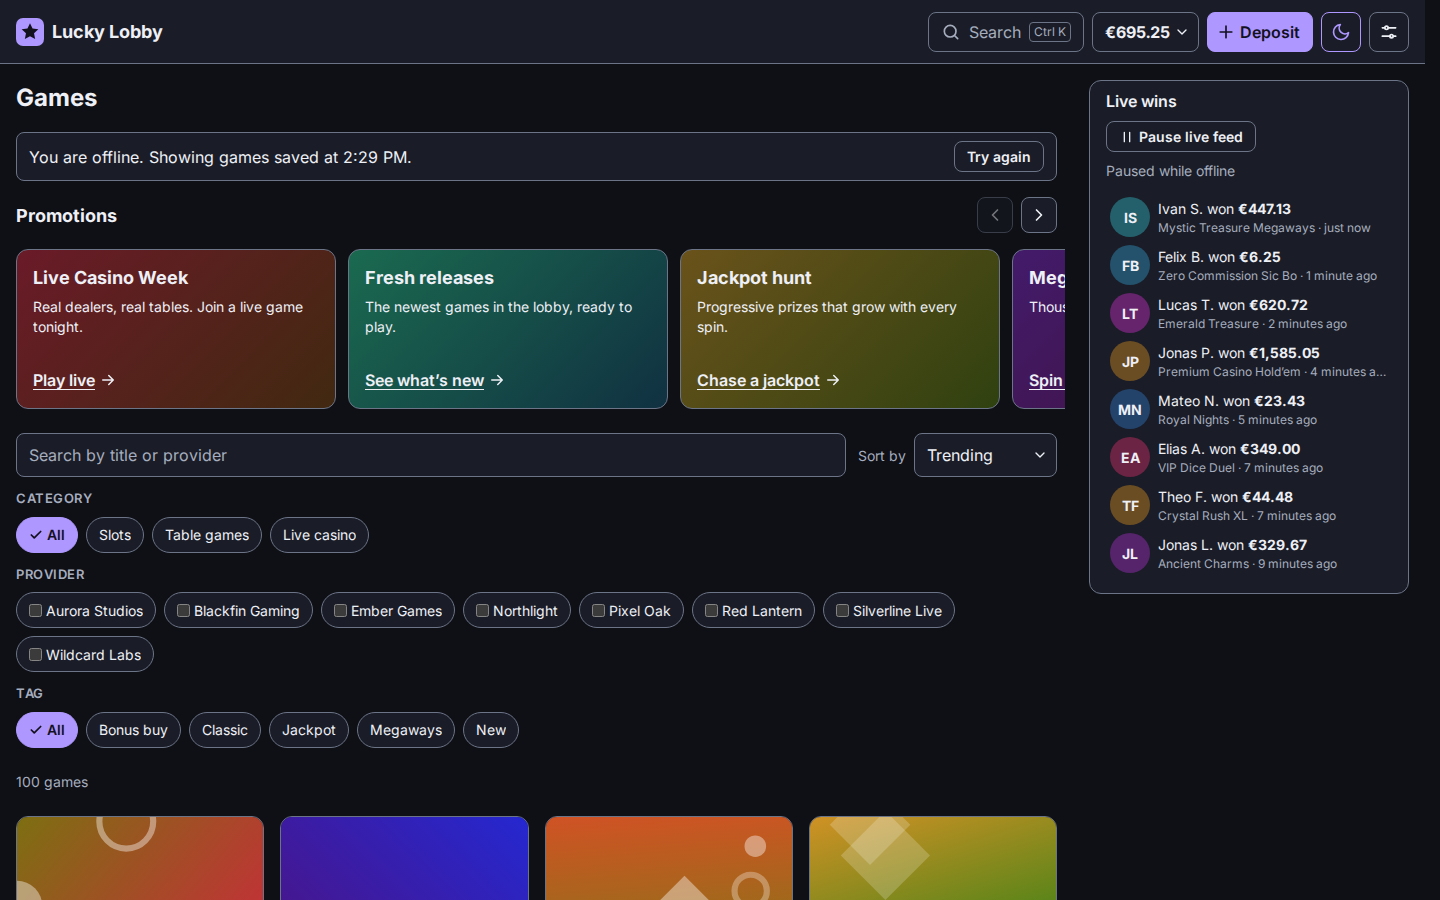
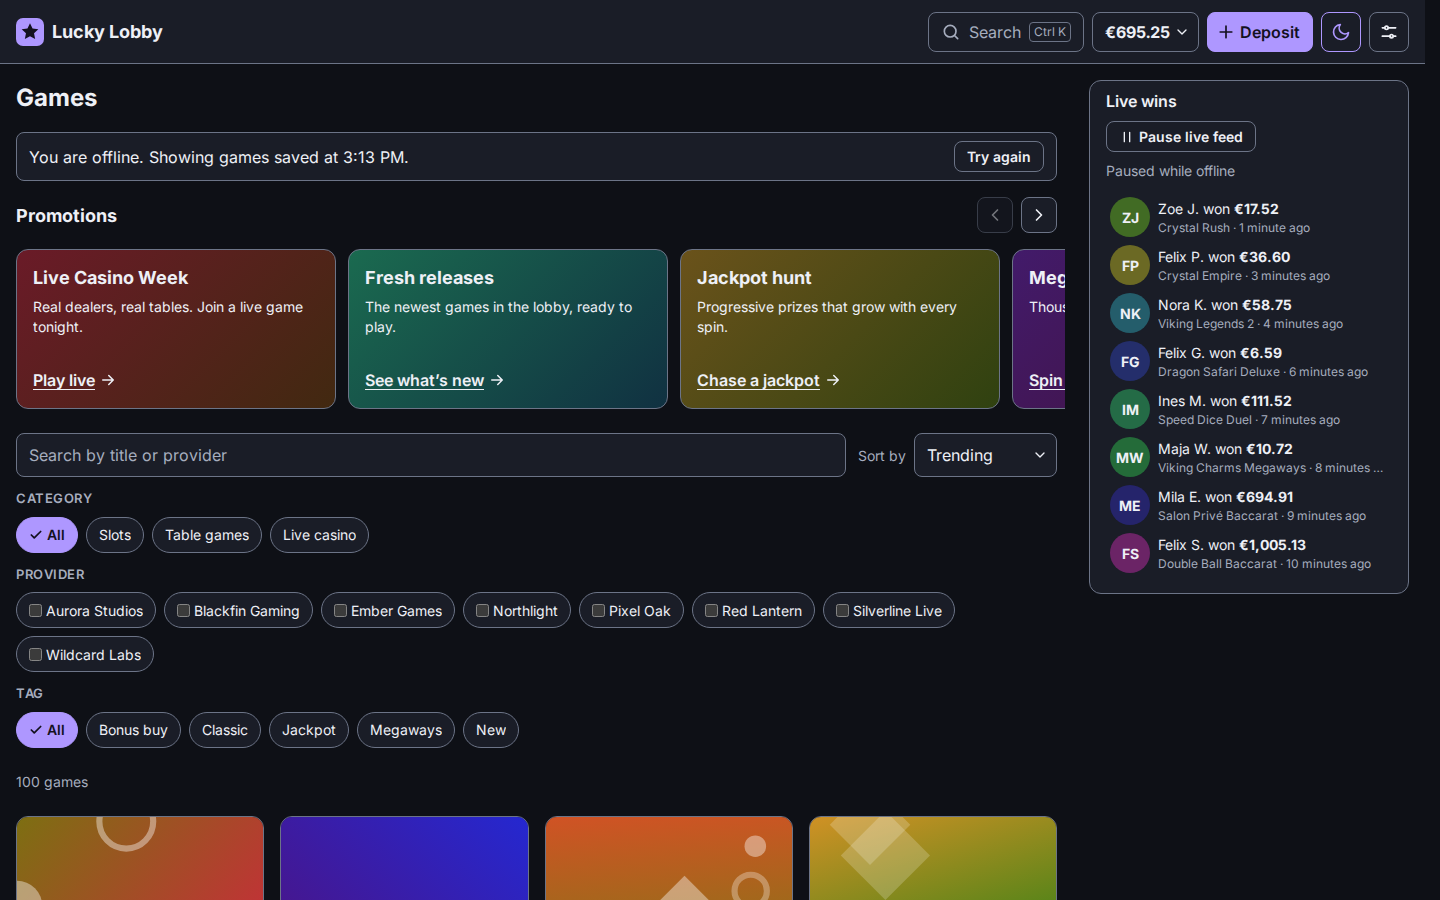
phase 7: palette proof with ranked groups, README trim, drop dead ignore
- proof/palette.png: query `live` (ranked games, then a provider); offline.png regenerated
- README: shorter test column and lines (~68 rendered lines), proof reference names the query
- .gitignore: remove /PLAN.md (PLAN.md is tracked on purpose)

Changed region(s): [[0.75, 0.2178, 0.9688, 0.6533], [0.25, 0.1556, 0.2812, 0.1867]]

diff --git a/scripts/proof.ts b/scripts/proof.ts
@@ -19,8 +19,9 @@ async function palette(browser: Browser) {
   await page.getByRole('list', { name: 'Current promotions' }).getByRole('link').first().waitFor();
   await page.keyboard.press('Control+KeyK');
   const dialog = page.getByRole('dialog', { name: 'Search and commands' });
-  await dialog.getByRole('combobox').fill('frz vlt');
-  await dialog.getByRole('option', { name: /Frozen Vault XL/ }).waitFor();
+  // `live` spans two groups: games ranked prefix > subsequence, then the provider.
+  await dialog.getByRole('combobox').fill('live');
+  await dialog.getByRole('option', { name: /Silverline Live/ }).waitFor();
   await page.screenshot({ path: new URL('palette.png', outDir).pathname });
   await context.close();
 }

diff --git a/README.md b/README.md
@@ -7,25 +7,25 @@ React 18 + strict TypeScript + Vite, plain CSS (logical properties), no UI or st
 npm install && npm start   # dev server: http://localhost:5173
 npm run start:pwa          # production build + preview on :4173 (PWA, offline)
 npm run check              # ESLint + Stylelint + typecheck + unit tests
-npm run test:e2e           # Playwright on the preview build (:4173 must be free)
+npm run test:e2e           # Playwright on the preview build (:4173 free; once: npx playwright install chromium)
 node scripts/proof.ts      # with start:pwa running: regenerates proof/*.png
 ```
-Node: `npm install && npm start` needs `^20.19 || >=22.12` (Vite 8); `npm run check` needs `^22.22.2 || ^24.15 || >=26` (Vitest 5, jsdom 30); `.ts` scripts ≥ 22.18. Once: `npx playwright install chromium`. Mocks: `?mock=slow`, `fail-`/`empty-` + `catalog`(fail only) / `feed` / `wallet` / `promos`, comma-separated.
+Node: install/start `^20.19 || >=22.12` (Vite 8); `check` `^22.22.2 || ^24.15 || >=26` (Vitest 5, jsdom 30); `.ts` scripts ≥ 22.18. Mocks: `?mock=slow`, `fail-catalog`, `fail-`/`empty-` + `feed`/`wallet`/`promos`, comma-separated.
 
 ## What's built (spec §1–§2) and how to see it
-| Item | How to see it | Covered by |
+| Item | How to see it | Test |
 |---|---|---|
-| Responsive, no horizontal scroll | DevTools at 360 / 768 / 1024 / 1440 | `catalog.spec`, `ru.spec`, `header.spec` |
-| Light/dark, one click, persisted, AA | "Dark theme" toggle in the header, reload | `Layout.test`, `bootScript.test`, `tokens.test`, axe |
-| Keyboard + screen reader | Tab from "Skip to content" | axe (`a11y.spec`), keyboard tests per feature |
-| Clean console | Fresh `npm start`, open DevTools | every e2e test fails on a console error/warning |
-| Skeleton / empty / error + Retry per region | the `?mock=` flags above | `catalog`, `feed`, `wallet`, `promos` specs |
-| Catalog: 100 games, filters + debounced search + sort, URL state | `/?cat=slots&prov=aurora-studios,ember-games&tag=megaways&sort=rtp`, then Back | `catalog.spec` "combined view…", `urlState.test` |
-| Live feed: pauses on hover, focus, hidden tab, offline, Pause; 50-entry buffer | hover the list, switch tabs | `feed.spec`, `feedIsolation.test` (0 grid commits / 10 ticks) |
-| Wallet: balance, recent list, deposit with conversion, animation, failure path | Deposit `100` → success; `109` → error, rolled back | `wallet.spec`, `walletReducer.test` (invariant) |
-| Promotions: real scroll container, snap, swipe; Prev/Next with a mouse | swipe on a phone (momentum is native) | `promos.spec`; momentum by hand |
-| Skeletons, no spinners; all text from `src/i18n` | `?mock=slow`; Settings → Русский | `cssPolish.test`, `ru.test` (same keys); literals: review, no lint rule |
-| Command palette: jump to a game, toggle theme | `Ctrl/⌘ + K` | `palette.spec`, `CommandPalette.test` |
+| Responsive, no horizontal scroll | DevTools at 360 / 768 / 1024 / 1440 | `catalog.spec` |
+| Light/dark, one click, persisted, AA | "Dark theme" toggle in the header, reload | `Layout`, `tokens` |
+| Keyboard + screen reader | Tab from "Skip to content" | `a11y.spec` (axe) |
+| Clean console | fresh `npm start`, DevTools | every e2e test |
+| Skeleton / empty / error + Retry | the `?mock=` flags above | each feature spec |
+| Catalog: 100 games, filters, debounced search, sort, URL | `/?cat=slots&tag=megaways&sort=rtp`, Back | `catalog.spec` |
+| Feed: pauses on hover, focus, hidden tab, offline, Pause; 50 max | hover the list, switch tabs | `feed.spec` |
+| Wallet: balance, list, deposit + conversion, animation, failure | Deposit `100` → ok; `109` → error, rolled back | `wallet.spec` |
+| Promotions: scroll container, snap, swipe; Prev/Next on desktop | swipe on a phone | `promos.spec`; momentum by hand |
+| No spinners; all text from `src/i18n` | `?mock=slow`; Settings → Русский | `cssPolish`, `ru`; literals by review |
+| Command palette: jump to a game, toggle theme | `Ctrl/⌘ + K` | `palette.spec` |
 
 ## Hardest trade-offs
 1. **URL is the only filter state.** Filters `pushState`, search `replaceState` after 250 ms, so every view is a link and Back works. *Cost:* a pending debounce must be flushed or dropped on every push and `popstate`; unknown providers/tags are dropped only after the catalog loads (an extra `replaceState`).
@@ -49,8 +49,8 @@ Node: `npm install && npm start` needs `^20.19 || >=22.12` (Vite 8); `npm run ch
 - **H4:** Settings → Accent hue → the app recolors; DevTools: only `--accent-h` on `<html>` changes (`accent.spec`, `feedIsolation.test` "accent isolation").
 
 ## Assumptions (more in [NOTES.md](NOTES.md))
-- A deposit fails when the last digit of the **typed** amount is 9 (`,` = `.`): `10.9` fails, `10.90` succeeds, by design.
+- A deposit fails when the **typed** amount ends in 9 (`,` = `.`): `10.9` fails, `10.90` succeeds, by design.
 - "Transaction appears in the feed" = the wallet's own list. Fixed rates (USD 0.92, GBP 1.17 → EUR), 1–5000 per deposit.
 
 ## Proof
-`proof/palette.png`, `proof/offline.png`; riskiest line and "with a week" in NOTES.md.
+`proof/palette.png` (`Ctrl+K` → `live`), `proof/offline.png`. Riskiest line and "with a week": NOTES.md.

diff --git a/PROGRESS.md b/PROGRESS.md
@@ -103,7 +103,7 @@ Keep this file under ~60 lines. Summarize; do not log every step. Update at the 
 - H5: not claimed — dropped (user); README: the rAF approach is shown in the balance animation. H6–H8: not claimed, README says what I would do.
 - RTL: not claimed (user, phase 7) — no complete `ar` translation; README uses the PLAN §7.2 sentence.
 
-- 7 — README (≤ ~70 rendered lines, table with "how to see it" + covering test per spec item), NOTES.md (riskiest line `api.ts:151` with two mutations run), `proof/palette.png` + `proof/offline.png` (1440×900 dark) from `scripts/proof.ts` (Playwright chromium, no new dependency, runs against `start:pwa`). Added api.test "rethrows an abort during the fetch instead of falling back" (the old abort test aborted during the delay only). "For README" / "For NOTES.md" lists above are now in those files.
+- 7 — README (≤ ~70 rendered lines, table with "how to see it" + covering test per spec item), NOTES.md (riskiest line `api.ts:151` with two mutations run), `proof/palette.png` (palette, query `live`: games + provider groups) + `proof/offline.png` (1440×900 dark) from `scripts/proof.ts` (Playwright chromium, no new dependency, runs against `start:pwa`). Agent files (CLAUDE.md, PLAN.md, PROGRESS.md, .claude/) stay tracked (user); dead `/PLAN.md` ignore line removed. Added api.test "rethrows an abort during the fetch instead of falling back" (the old abort test aborted during the delay only). "For README" / "For NOTES.md" lists above are now in those files.
 
 ## Next
 - Submission state. Manual §8 checks by the user (keyboard pass, reload persistence, mocks, hidden tab, dev console, H2 runbook, ru at 360 px, momentum on a phone).
